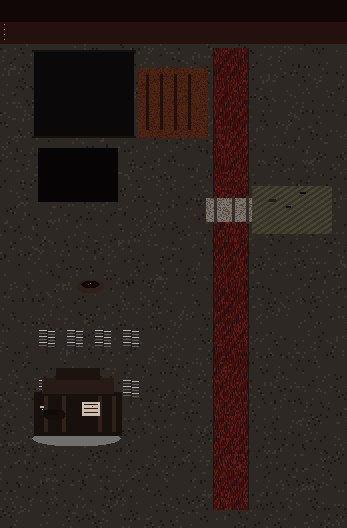
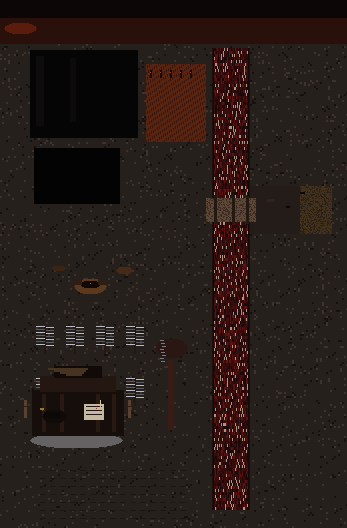
Repaint Svarga and Naraka as gold manuscript and filed darkness.

diff --git a/src/game/draw.ts b/src/game/draw.ts
@@ -601,50 +601,65 @@ function drawCampfire(ctx: CanvasRenderingContext2D, sheet: HTMLImageElement, cl
 }
 
 function drawSvarga(ctx: CanvasRenderingContext2D, clock: number, sheet?: HTMLImageElement): void {
-  ctx.fillStyle = "#30180c";
+  ctx.fillStyle = "#142448";
   ctx.fillRect(0, 0, WORLD_W, WORLD_H);
   if (sheet) ctx.drawImage(sheet, 0, 0);
-  const lease = 0.5 + 0.5 * Math.sin(clock * 0.35);
+  const lease = 0.5 + 0.5 * Math.sin(clock * 0.22);
   ctx.save();
   ctx.beginPath();
   ctx.rect(156, 358, 68, 30);
   ctx.clip();
-  for (let i = 0; i < 7; i++) {
-    const x = 160 + ((clock * 16 + i * 13) % 56);
-    ctx.fillStyle = i % 2 ? "rgba(255,255,255,0.7)" : "rgba(180,230,226,0.8)";
-    ctx.fillRect(Math.floor(x), 364 + (i % 4) * 5, 4, 1);
+  for (let i = 0; i < 5; i++) {
+    const x = 162 + ((clock * 8 + i * 17) % 52);
+    ctx.fillStyle = i % 2 ? "rgba(255,255,255,0.75)" : "rgba(160,210,214,0.7)";
+    ctx.fillRect(Math.floor(x), 366 + (i % 3) * 6, 3, 1);
   }
   ctx.restore();
-  for (let i = 0; i < 16; i++) {
-    const x = (i * 41 + Math.floor(clock * (6 + (i % 3)))) % (WORLD_W - 6);
-    const y = 48 + ((i * 67 + Math.floor(clock * 5)) % (FARM_H - 70));
-    ctx.fillStyle = i % 3 === 0 ? "#fff8d8" : "#ffd878";
+  for (let i = 0; i < 10; i++) {
+    const x = (i * 29 + Math.floor(clock * 4)) % (WORLD_W - 4);
+    const y = 80 + ((i * 41 + Math.floor(clock * 10)) % (FARM_H - 100));
+    ctx.fillStyle = i % 2 ? "#e87898" : "#fff4ea";
     ctx.fillRect(x, y, 1, 1);
   }
-  ctx.fillStyle = `rgba(255, 232, 180, ${0.035 + lease * 0.04})`;
-  ctx.fillRect(0, 36, WORLD_W, FARM_H - 36);
+  for (let i = 0; i < 8; i++) {
+    const x = (i * 43 + Math.floor(clock * 6)) % (WORLD_W - 6);
+    const y = 200 + ((i * 23) % 180);
+    ctx.fillStyle = "rgba(255, 236, 180, 0.85)";
+    ctx.fillRect(x, y, 1, 1);
+  }
+  const ripple = (clock * 10) % 18;
+  ctx.strokeStyle = `rgba(255, 244, 210, ${0.15 + lease * 0.15})`;
+  ctx.strokeRect(168 + ripple, 210, 8, 3);
+  ctx.fillStyle = `rgba(255, 228, 170, ${0.03 + lease * 0.035})`;
+  ctx.fillRect(0, 40, WORLD_W, FARM_H - 40);
 }
 
 function drawNaraka(ctx: CanvasRenderingContext2D, clock: number, sheet?: HTMLImageElement): void {
-  ctx.fillStyle = "#100806";
+  ctx.fillStyle = "#0c0606";
   ctx.fillRect(0, 0, WORLD_W, WORLD_H);
   if (sheet) ctx.drawImage(sheet, 0, 0);
   ctx.save();
   ctx.beginPath();
   ctx.rect(214, 48, 34, 462);
   ctx.clip();
-  for (let i = 0; i < 26; i++) {
-    const y = 48 + ((i * 19 + Math.floor(clock * 28)) % 462);
+  for (let i = 0; i < 14; i++) {
+    const y = 48 + ((i * 31 + Math.floor(clock * 7)) % 462);
     if (y > 194 && y < 226) continue;
-    ctx.fillStyle = i % 3 === 0 ? "rgba(210, 70, 48, 0.55)" : "rgba(40, 8, 8, 0.35)";
-    ctx.fillRect(216 + (i % 6) * 4, y, 3, 1);
+    ctx.fillStyle = i % 4 === 0 ? "rgba(190, 170, 140, 0.55)" : "rgba(120, 24, 18, 0.45)";
+    ctx.fillRect(218 + (i % 4) * 5, y, 5, 2);
   }
   ctx.restore();
-  const flick = 0.4 + 0.6 * Math.sin(clock * 8);
-  ctx.fillStyle = `rgba(255, 150, 48, ${0.45 + flick * 0.5})`;
+  for (let i = 0; i < 8; i++) {
+    const x = 40 + ((i * 37) % 160);
+    const y = FARM_H - 40 - ((Math.floor(clock * 8) + i * 19) % 200);
+    ctx.fillStyle = i % 2 ? "#2a2420" : "#1a1412";
+    ctx.fillRect(x, y, 1, 1);
+  }
+  const flick = 0.4 + 0.6 * Math.sin(clock * 5);
+  ctx.fillStyle = `rgba(180, 90, 36, ${0.25 + flick * 0.35})`;
+  ctx.fillRect(86, 276, 8, 2);
   ctx.fillRect(89, 282, 2, 1);
-  ctx.fillRect(91, 283, 1, 1);
-  const hop = Math.floor(clock * 2) % 2;
+  const hop = Math.floor(clock) % 2;
   ctx.fillStyle = "#0e0c0a";
   ctx.fillRect(298, 190 - hop, 6, 2);
   ctx.fillRect(284 + hop, 204, 5, 2);

diff --git a/src/game/assets.ts b/src/game/assets.ts
@@ -1,5 +1,5 @@
 /** Bump this when the pictures change so phones and computers drop the old files. */
-export const ART = "20260929c";
+export const ART = "20260929d";
 
 function art(path: string): string {
   return `${path}?v=${ART}`;
